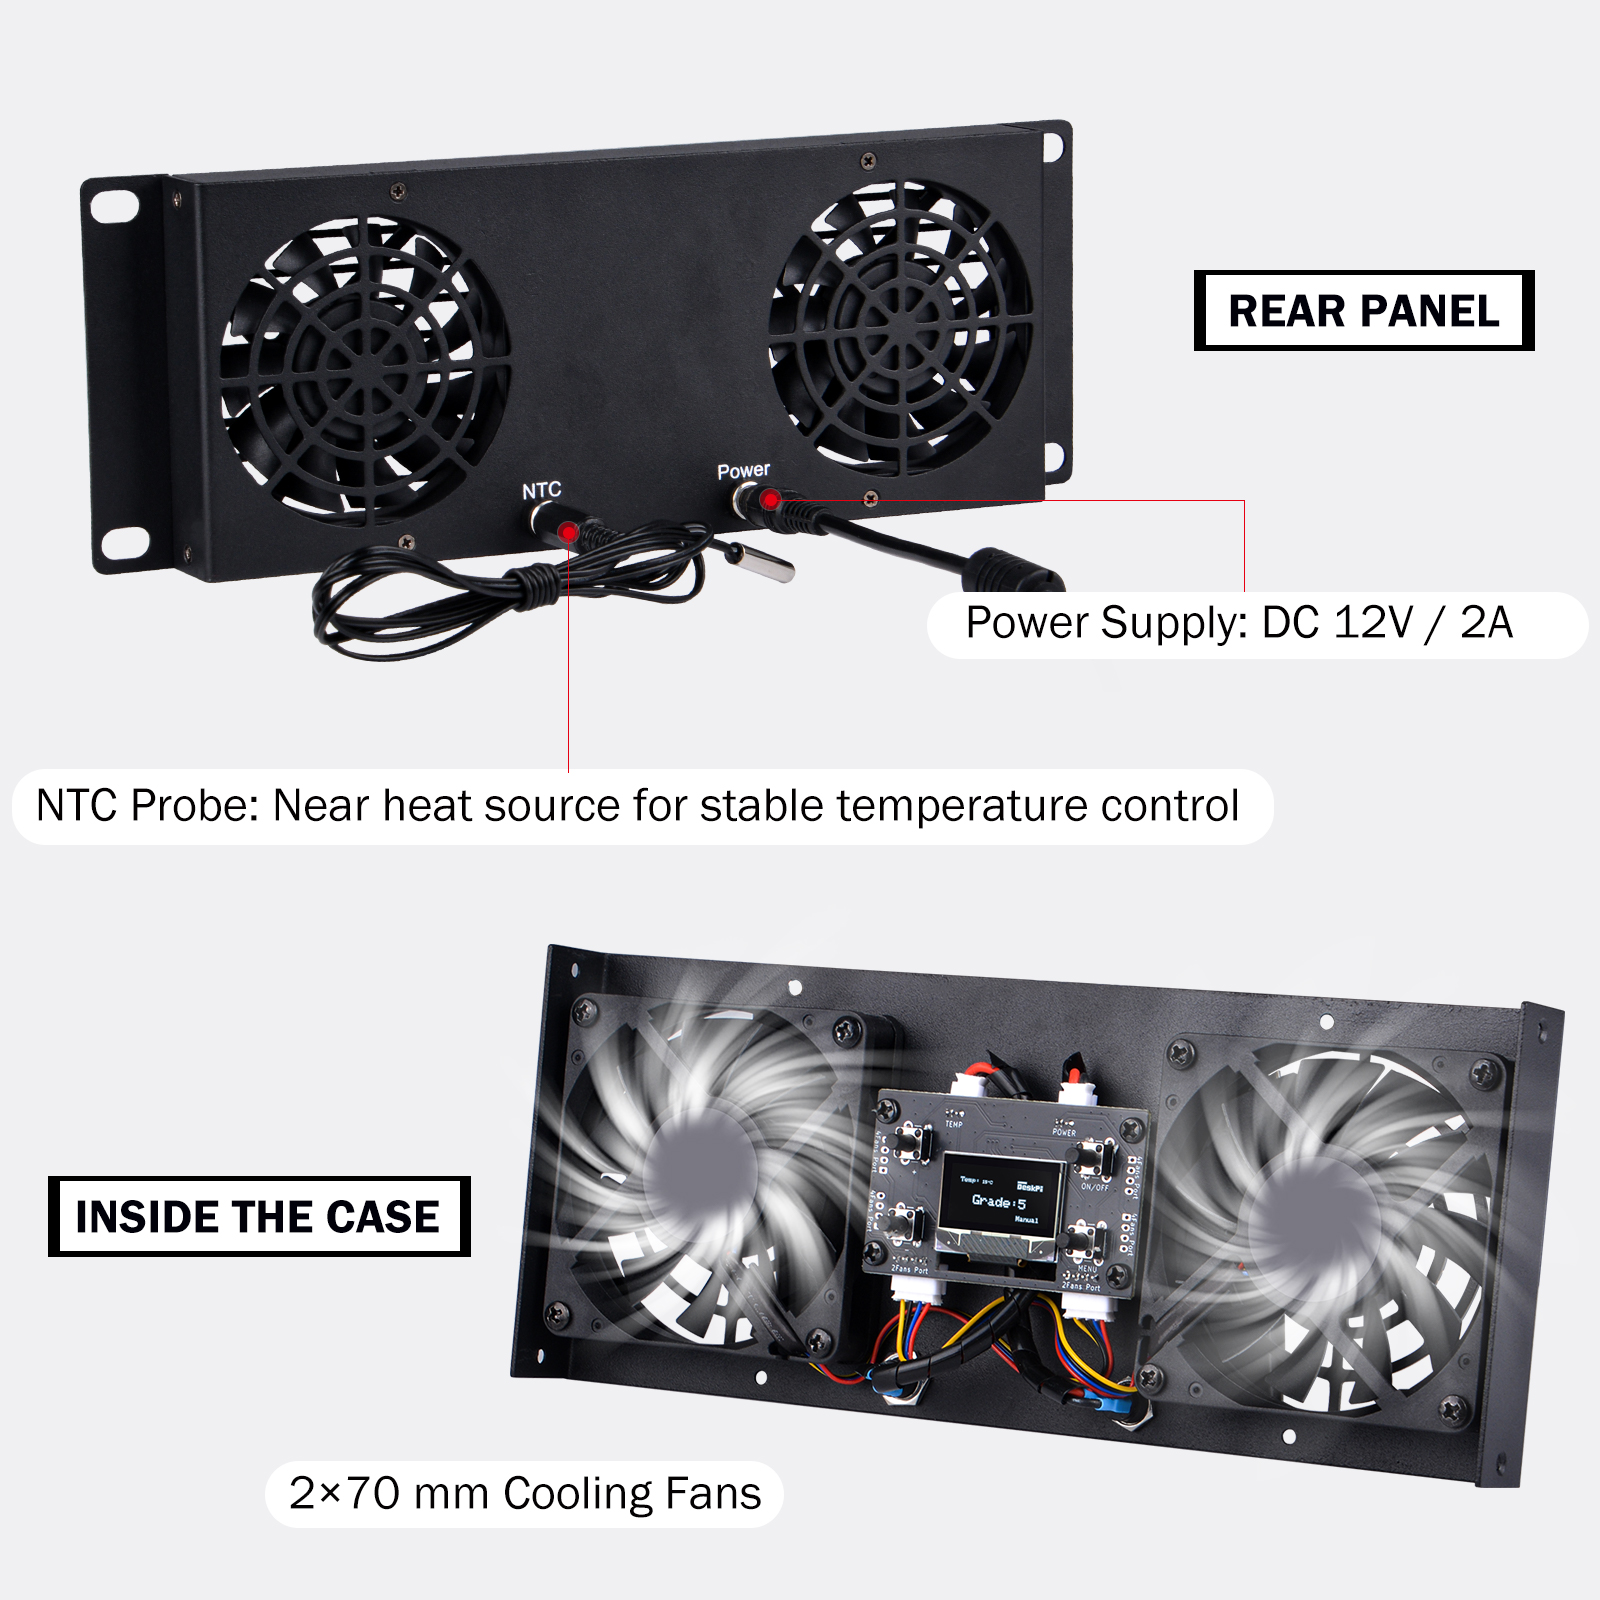
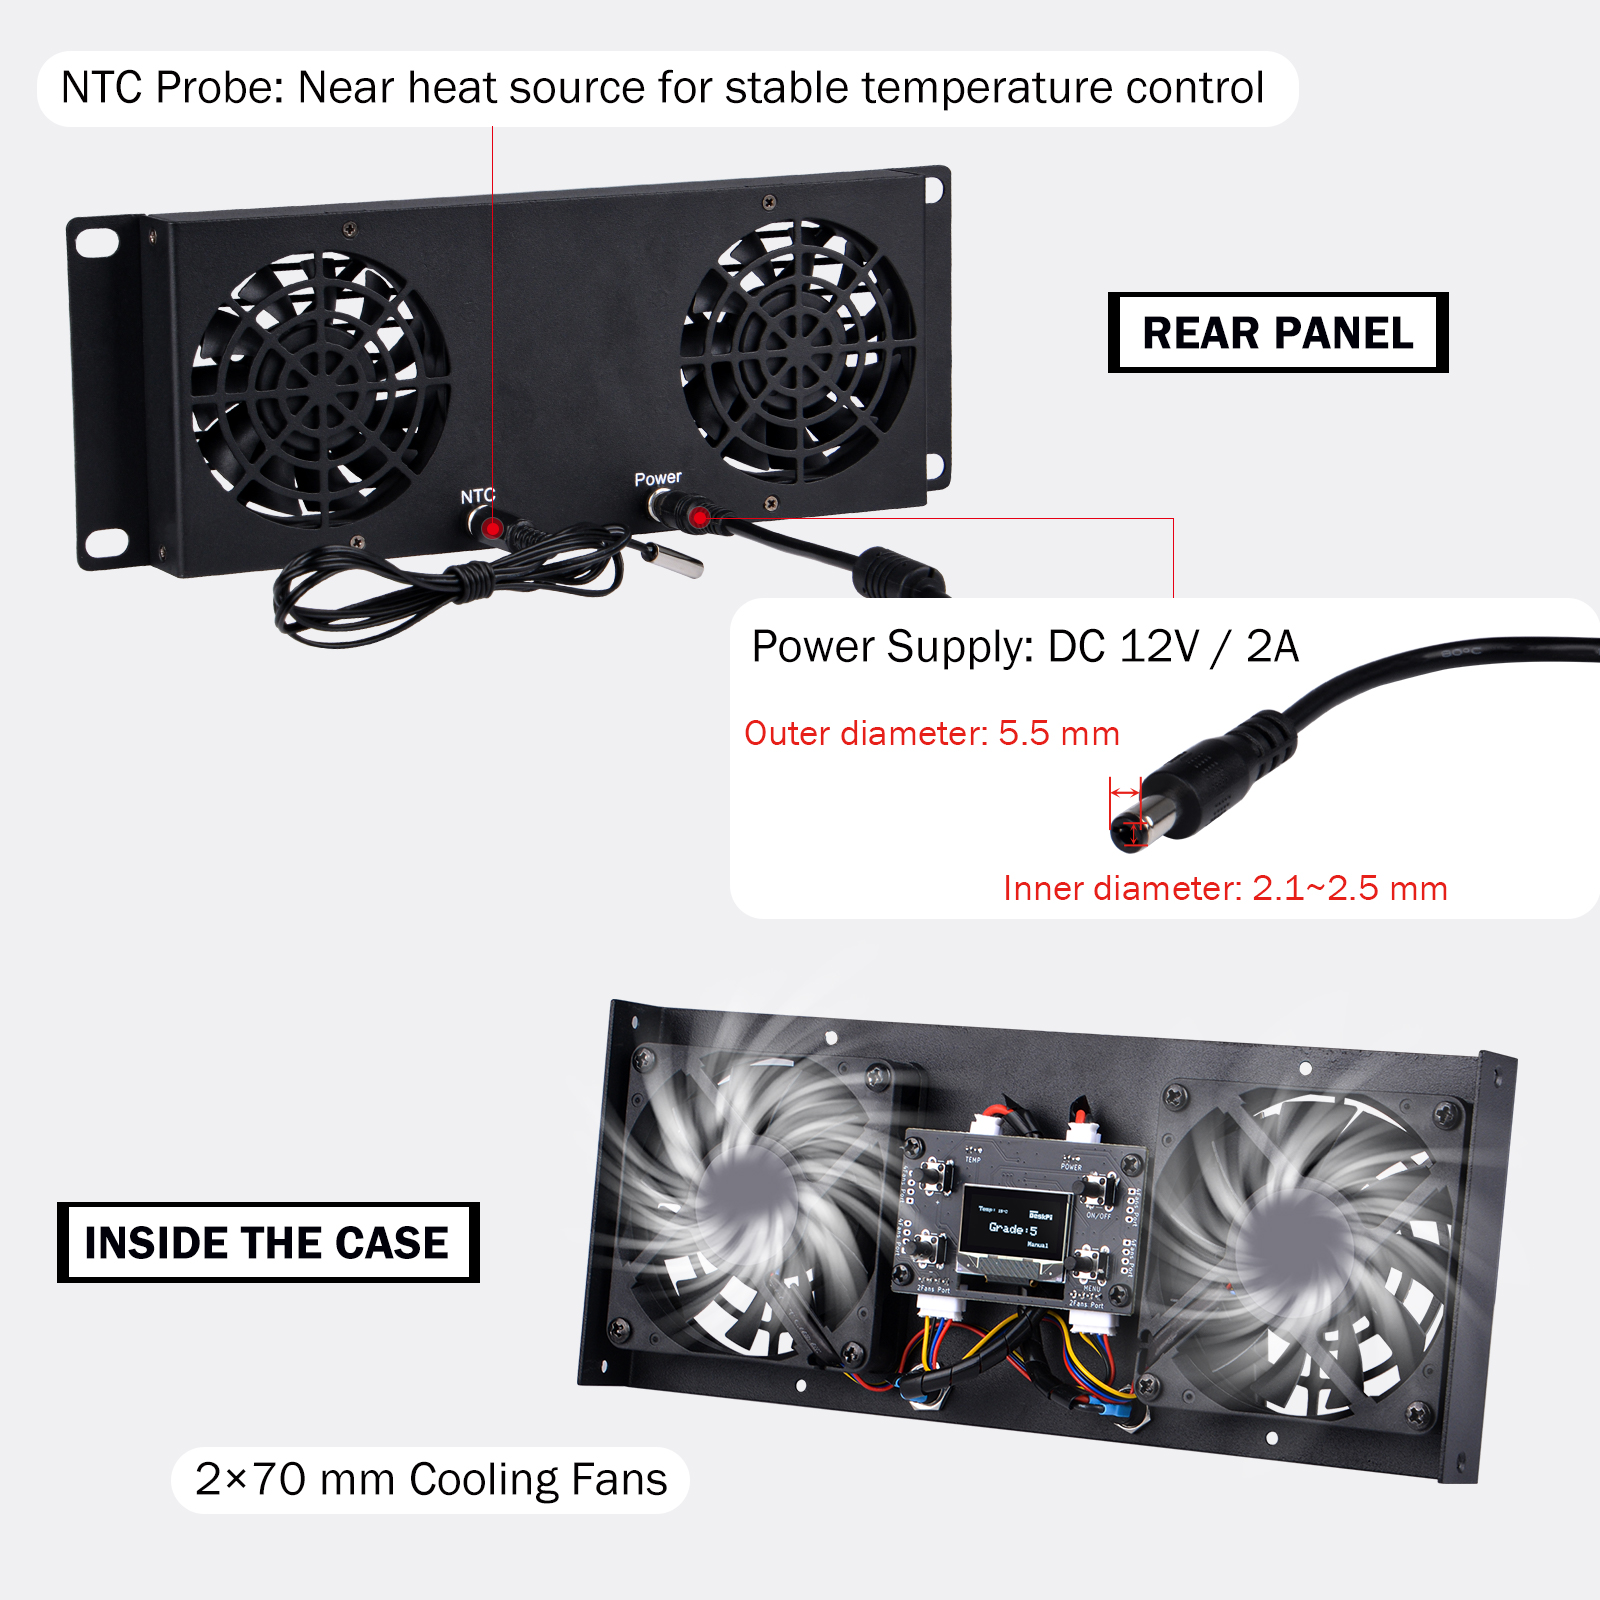
update DP-0006 and DP-0007 DC Port Picture

diff --git a/DR-0007/index.html b/DR-0007/index.html
@@ -74,6 +74,8 @@
     </li>
     <li class="toctree-l2"><a class="reference internal" href="#fan-operating-modes">Fan Operating Modes</a>
     </li>
+    <li class="toctree-l2"><a class="reference internal" href="#dc-port-specifications">DC port Specifications</a>
+    </li>
     <li class="toctree-l2"><a class="reference internal" href="#fan-operation-logic">Fan Operation Logic</a>
     </li>
     <li class="toctree-l2"><a class="reference internal" href="#temperature-measurement-range">Temperature Measurement Range</a>
@@ -212,8 +214,9 @@ A dedicated fan panel for T2/TL1 racks is planned for a future release.</p>
 <h2 id="power-connection">Power Connection</h2>
 <p><img alt="010" src="../imgs/DR-0007/DR-0007-10.jpg" /></p>
 <h2 id="fan-operating-modes">Fan Operating Modes</h2>
-<p><img alt="004" src="../imgs/DR-0007/DR-0007-04.jpg" />
-<img alt="006" src="../imgs/DR-0007/DR-0007-06.jpg" /></p>
+<p><img alt="004" src="../imgs/DR-0007/DR-0007-04.jpg" /></p>
+<h2 id="dc-port-specifications">DC port Specifications</h2>
+<p><img alt="006" src="../imgs/DR-0007/DR-0007-06.jpg" /></p>
 <h2 id="fan-operation-logic">Fan Operation Logic</h2>
 <p>When the temperature is below <code>Close Temp</code>, the fans stop running.
 When the temperature is between <code>Close Temp</code> and <code>Warn Temp</code>, fan speed is automatically adjusted according to temperature.</p>

diff --git a/DR-0006/index.html b/DR-0006/index.html
@@ -62,6 +62,8 @@
     </li>
     <li class="toctree-l2"><a class="reference internal" href="#t1-plus-rack-with-fan-panel">T1 Plus Rack with Fan Panel</a>
     </li>
+    <li class="toctree-l2"><a class="reference internal" href="#dc-specification">DC Specification</a>
+    </li>
     <li class="toctree-l2"><a class="reference internal" href="#ntc-sensor-placement">NTC Sensor Placement</a>
     </li>
     <li class="toctree-l2"><a class="reference internal" href="#power-connection">Power Connection</a>
@@ -203,6 +205,8 @@ temperature, thereby enhancing overall system stability and reliability.</p>
 <p>3D-printed model website: 
 <a href="https://print.deskpi.com">print.deskpi.com</a></p>
 </blockquote>
+<h2 id="dc-specification">DC Specification</h2>
+<p><img alt="008" src="../imgs/DR-0006/DR-0006-08.jpg" /></p>
 <h2 id="ntc-sensor-placement">NTC Sensor Placement</h2>
 <p><img alt="007" src="../imgs/DR-0006/DR-0006-07.jpg" /></p>
 <h2 id="power-connection">Power Connection</h2>

diff --git a/index.html b/index.html
@@ -252,5 +252,5 @@
 
 <!--
 MkDocs version : 1.6.1
-Build Date UTC : 2026-02-02 09:43:12.258107+00:00
+Build Date UTC : 2026-03-10 09:36:39.913369+00:00
 -->